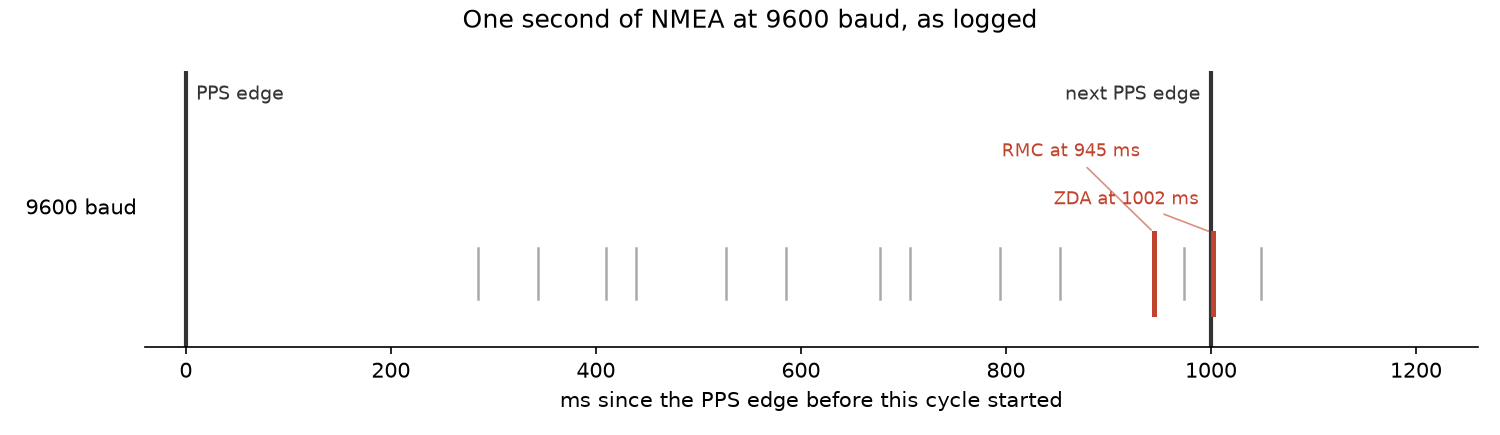
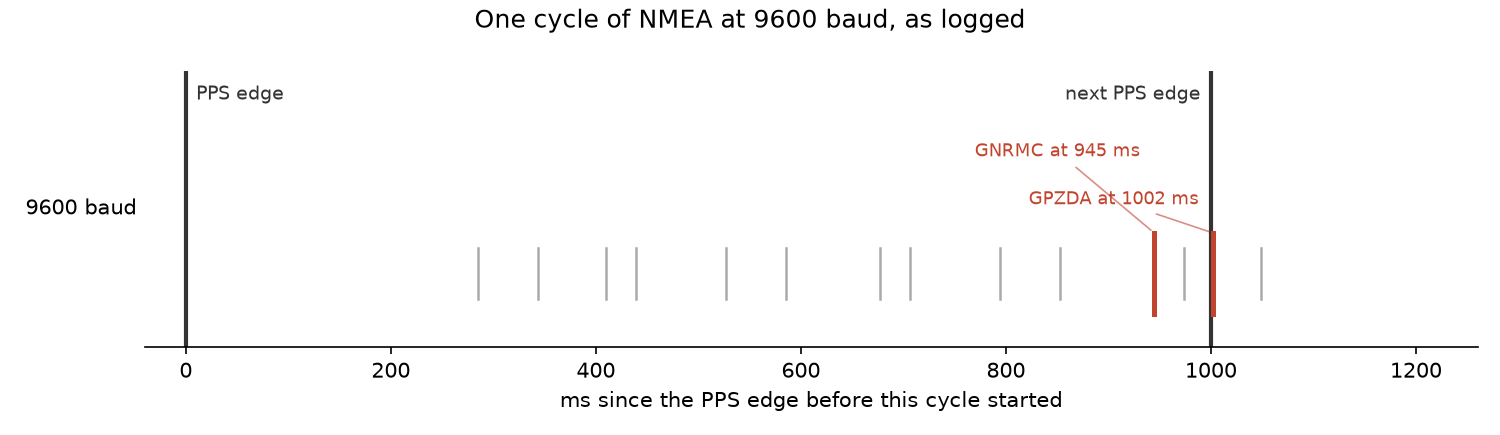
docs: cite the document by name, use the wire identifiers, ground the last section
"仕様 §2.2.4" appeared with no antecedent, and the document is not the NMEA 0183
standard — it is MediaTek's MT3333 Platform NMEA Message Specification. Named in
full at first use, then "MT3333 NMEA spec 2.2.4" at each reference.

Sentence names now carry their talker throughout, since none of the ones that
matter here start with GP the way a reader would assume: GNRMC, GPZDA, GPGGA,
GNGLL, GNGSA, GPVTG, GPGST. GSV stays generic in prose because it genuinely comes
in two — the figure now splits it, GPGSV 4 sentences for 15 GPS satellites and
GLGSV 2 for 8 GLONASS, which is where the six come from. Six is a property of
what was overhead during this measurement, and the text says so rather than
stating it as the receiver's fixed output.

境界 → 秒境界 throughout: it is the UTC second boundary, and the bare word had
started to read as any old boundary.

The last section asserted a trade-off without saying which side the specification
is on, so its claim was unreadable. The slot scheme *is* the spec-faithful one:
GPZDA is defined as telling the time of the pulse that just occurred, a few
hundred ms after it, so taking the most recent edge is exactly what that
sentence licenses. What broke at 9600 was the premise — GPZDA arrived 1083 ms
after its pulse, which is not "a few hundred". The queue drops the premise, but
it substitutes one the spec never makes (one-to-one, in order), so it trades a
guarantee for an assumption. Raising the rate restores the guarantee instead.
[…]

diff --git a/docs/report/pps-nmea-pairing/logs/pairing/plot_pairing.py b/docs/report/pps-nmea-pairing/logs/pairing/plot_pairing.py
@@ -37,6 +37,10 @@ NMEA_RE = re.compile(r"NMEA (\$([A-Z]{2})([A-Z]{3})\S*)")
 # 見やすさのため、図の色は 2 つの条件で固定する。
 SLOW_C, FAST_C = "#c1442e", "#2e7d5b"
 
+# 図には実機が出している電文名で書く。ログの突き合わせは 3 文字の種別で行うが、
+# 表示まで 3 文字にすると GP 始まりだと読まれる (この個体の RMC は GNRMC である)。
+FULL = {"RMC": "GNRMC", "ZDA": "GPZDA", "GGA": "GPGGA", "GST": "GPGST"}
+
 
 def load(path: Path):
     """(PPS エッジ時刻, [(センテンス時刻, 種別, バイト長)]) を返す。"""
@@ -155,7 +159,7 @@ def fig_timeline(panels, title, path: Path):
             ha = "right" if off > 700 else "left"
             dx = -14 if ha == "right" else 14
             ax.annotate(
-                f"{kind} at {off:.0f} ms",
+                f"{FULL.get(kind, kind)} at {off:.0f} ms",
                 xy=(off, 0.62),
                 xytext=(off + dx, y),
                 ha=ha,
@@ -302,8 +306,8 @@ def main() -> int:
     )
     fig_margin(
         [
-            ("RMC\n@ 9600", slow_rmc, SLOW_C),
-            ("ZDA\n@ 9600", slow_zda, SLOW_C),
+            ("GNRMC\n@ 9600", slow_rmc, SLOW_C),
+            ("GPZDA\n@ 9600", slow_zda, SLOW_C),
         ],
         OUT / "fig-margin.png",
     )
